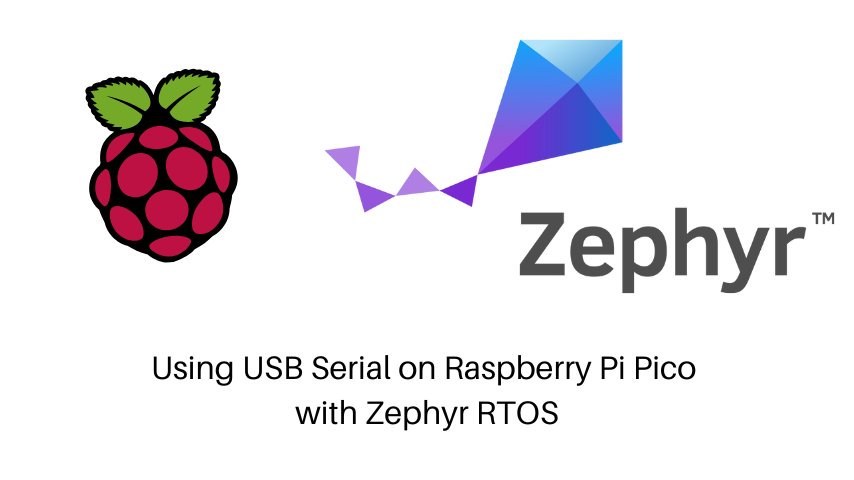
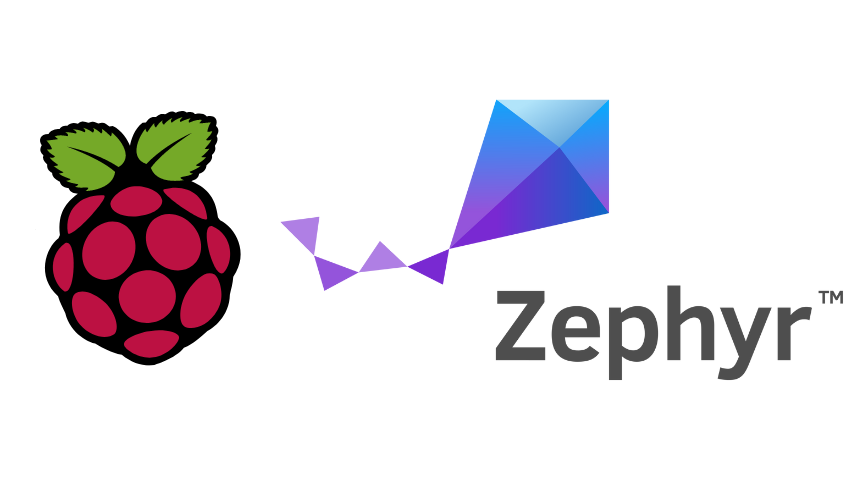
Fixes to blog posts Change-type: patch Signed-off-by: Alex Bucknall <alex.bucknall@gmail.com>

Changed region(s): [[0.0304, 0.0625, 1.0, 0.9062], [0.9438, 0.4375, 1.0, 0.4688]]

diff --git a/assets/monokai.css b/assets/monokai.css
@@ -1,0 +1,318 @@
+.highlight pre {
+  background-color: #272822;
+}
+
+.highlight .hll {
+  background-color: #272822;
+}
+
+.highlight .c {
+  color: #75715e
+}
+
+/* Comment */
+.highlight .err {
+  color: #960050;
+  background-color: #1e0010
+}
+
+/* Error */
+.highlight .k {
+  color: #66d9ef
+}
+
+/* Keyword */
+.highlight .l {
+  color: #ae81ff
+}
+
+/* Literal */
+.highlight .n {
+  color: #f8f8f2
+}
+
+/* Name */
+.highlight .o {
+  color: #f92672
+}
+
+/* Operator */
+.highlight .p {
+  color: #f8f8f2
+}
+
+/* Punctuation */
+.highlight .cm {
+  color: #75715e
+}
+
+/* Comment.Multiline */
+.highlight .cp {
+  color: #75715e
+}
+
+/* Comment.Preproc */
+.highlight .c1 {
+  color: #75715e
+}
+
+/* Comment.Single */
+.highlight .cs {
+  color: #75715e
+}
+
+/* Comment.Special */
+.highlight .ge {
+  font-style: italic
+}
+
+/* Generic.Emph */
+.highlight .gs {
+  font-weight: bold
+}
+
+/* Generic.Strong */
+.highlight .kc {
+  color: #66d9ef
+}
+
+/* Keyword.Constant */
+.highlight .kd {
+  color: #66d9ef
+}
+
+/* Keyword.Declaration */
+.highlight .kn {
+  color: #f92672
+}
+
+/* Keyword.Namespace */
+.highlight .kp {
+  color: #66d9ef
+}
+
+/* Keyword.Pseudo */
+.highlight .kr {
+  color: #66d9ef
+}
+
+/* Keyword.Reserved */
+.highlight .kt {
+  color: #66d9ef
+}
+
+/* Keyword.Type */
+.highlight .ld {
+  color: #e6db74
+}
+
+/* Literal.Date */
+.highlight .m {
+  color: #ae81ff
+}
+
+/* Literal.Number */
+.highlight .s {
+  color: #e6db74
+}
+
+/* Literal.String */
+.highlight .na {
+  color: #a6e22e
+}
+
+/* Name.Attribute */
+.highlight .nb {
+  color: #f8f8f2
+}
+
+/* Name.Builtin */
+.highlight .nc {
+  color: #a6e22e
+}
+
+/* Name.Class */
+.highlight .no {
+  color: #66d9ef
+}
+
+/* Name.Constant */
+.highlight .nd {
+  color: #a6e22e
+}
+
+/* Name.Decorator */
+.highlight .ni {
+  color: #f8f8f2
+}
+
+/* Name.Entity */
+.highlight .ne {
+  color: #a6e22e
+}
+
+/* Name.Exception */
+.highlight .nf {
+  color: #a6e22e
+}
+
+/* Name.Function */
+.highlight .nl {
+  color: #f8f8f2
+}
+
+/* Name.Label */
+.highlight .nn {
+  color: #f8f8f2
+}
+
+/* Name.Namespace */
+.highlight .nx {
+  color: #a6e22e
+}
+
+/* Name.Other */
+.highlight .py {
+  color: #f8f8f2
+}
+
+/* Name.Property */
+.highlight .nt {
+  color: #f92672
+}
+
+/* Name.Tag */
+.highlight .nv {
+  color: #f8f8f2
+}
+
+/* Name.Variable */
+.highlight .ow {
+  color: #f92672
+}
+
+/* Operator.Word */
+.highlight .w {
+  color: #f8f8f2
+}
+
+/* Text.Whitespace */
+.highlight .mf {
+  color: #ae81ff
+}
+
+/* Literal.Number.Float */
+.highlight .mh {
+  color: #ae81ff
+}
+
+/* Literal.Number.Hex */
+.highlight .mi {
+  color: #ae81ff
+}
+
+/* Literal.Number.Integer */
+.highlight .mo {
+  color: #ae81ff
+}
+
+/* Literal.Number.Oct */
+.highlight .sb {
+  color: #e6db74
+}
+
+/* Literal.String.Backtick */
+.highlight .sc {
+  color: #e6db74
+}
+
+/* Literal.String.Char */
+.highlight .sd {
+  color: #e6db74
+}
+
+/* Literal.String.Doc */
+.highlight .s2 {
+  color: #e6db74
+}
+
+/* Literal.String.Double */
+.highlight .se {
+  color: #ae81ff
+}
+
+/* Literal.String.Escape */
+.highlight .sh {
+  color: #e6db74
+}
+
+/* Literal.String.Heredoc */
+.highlight .si {
+  color: #e6db74
+}
+
+/* Literal.String.Interpol */
+.highlight .sx {
+  color: #e6db74
+}
+
+/* Literal.String.Other */
+.highlight .sr {
+  color: #e6db74
+}
+
+/* Literal.String.Regex */
+.highlight .s1 {
+  color: #e6db74
+}
+
+/* Literal.String.Single */
+.highlight .ss {
+  color: #e6db74
+}
+
+/* Literal.String.Symbol */
+.highlight .bp {
+  color: #f8f8f2
+}
+
+/* Name.Builtin.Pseudo */
+.highlight .vc {
+  color: #f8f8f2
+}
+
+/* Name.Variable.Class */
+.highlight .vg {
+  color: #f8f8f2
+}
+
+/* Name.Variable.Global */
+.highlight .vi {
+  color: #f8f8f2
+}
+
+/* Name.Variable.Instance */
+.highlight .il {
+  color: #ae81ff
+}
+
+/* Literal.Number.Integer.Long */
+
+.highlight .gh {}
+
+/* Generic Heading & Diff Header */
+.highlight .gu {
+  color: #75715e;
+}
+
+/* Generic.Subheading & Diff Unified/Comment? */
+.highlight .gd {
+  color: #f92672;
+}
+
+/* Generic.Deleted & Diff Deleted */
+.highlight .gi {
+  color: #a6e22e;
+}
+
+/* Generic.Inserted & Diff Inserted */

diff --git a/assets/styles.scss b/assets/styles.scss
@@ -2,7 +2,8 @@
 ---
 @import url('https://unpkg.com/primer/build/build.css');
 // @import 'highlight-syntax';
-@import 'fruity.css';
+// @import 'fruity.css';
+@import 'monokai.css';
 
 // If a user adds a custom font, this component will stop it from bleeding into GitHub components:
 .github-component {
@@ -17,6 +18,10 @@
     position: relative;
     top: 2px;
     width: 12px;
+}
+
+img {
+  width: 100%;
 }
 
 .emoji {

diff --git a/_posts/2023-05-12-rpi-pico-usb-serial-zephyr.md b/_posts/2023-05-12-rpi-pico-usb-serial-zephyr.md
@@ -9,18 +9,18 @@ comments: true
 category: zephyr
 ---
 
-## Raspberry Pico Serial Demo for Zephyr RTOS
+![Pico Zephyr](/assets/images/pico-zephyr.png)
 
-Example project for a simple USB Serial using the Raspberry Pi Pico, using Zephyr RTOS.
-There are a number of USB Serial examples for different Zephyr supported devices but few that are up-to-date with the latest version of Zephyr (3.3.99 at the time of writing).
+This is an example project for a simple USB Serial using the Raspberry Pi Pico, using Zephyr RTOS.
+There are a number of sample USB Serial for different Zephyr supported devices but few that are up-to-date with the latest version of Zephyr (currently [v3.3.0](https://github.com/zephyrproject-rtos/zephyr/releases/tag/v3.3.0)) and even fewer targeting the RPi Pico.
 
-This is a simple demo for how get a Serial Console from the RPi Pico over USB CDC ACM.
+This blog post refers to this [simple demo repository](https://github.com/Bucknalla/pico-zephyr-serial) for how get a 'Serial Console from the RPi Pico over USB CDC ACM'.
 
 ## Setting up your project
 
 The following files are required to enable a USB Serial Console on the RPi Pico.
 
-### prj.conf
+### [prj.conf](https://github.com/Bucknalla/pico-zephyr-serial/blob/main/prj.conf)
 
 The `*.conf` file is used by Zephyr as a `Kconfig` file, which specifies which kernel configuration options should be used for this application.
 These settings are used along with the board/device specific settings to generate a specific Zephyr kernel configuration.
@@ -40,7 +40,7 @@ CONFIG_UART_LINE_CTRL=y # This enables the API for apps to control the serial li
 
 If you're unsure of what a specific option does, the Zephyr Docs helpfully provide a [nice tool](https://docs.zephyrproject.org/latest/kconfig.html) for searching for each mainline config does.
 
-### app.overlay
+### [app.overlay](https://github.com/Bucknalla/pico-zephyr-serial/blob/main/app.overlay)
 
 Device Tree Overlays can be used by a Zephyr application to specify new hardware or re-assign existing hardware.
 In our application, we'll use the `app.overlay` to inform Zephyr that we want to have a USB CDC ACM device.
@@ -75,10 +75,11 @@ Since the kernel mainly deals with devices, any new device node that result in a
 
 In our case, we know that the RPi Pico board has a `zephyr_udc0` (USB device controller) node and we update the node to specify that we want this to be a CDC ACM type device, specifically compatible with `"zephyr,cdc-acm-uart"`.
 
-### .vscode/c_cpp_properties.json
+### [.vscode/c_cpp_properties.json](https://github.com/Bucknalla/pico-zephyr-serial/blob/main/.vscode/c_cpp_properties.json)
 
-This file, while not specific to Zephyr, is helpful when developing Zephyr Applications using VSCode as it allows the C/CPlusPlus [IntelliSense](https://code.visualstudio.com/docs/editor/intellisense) tools to resolve the missing header/includes for your Zephyr libraries.
+This file, while not specific to Zephyr, is helpful when developing Zephyr Applications using VSCode as it allows the C/C++ [IntelliSense](https://code.visualstudio.com/docs/editor/intellisense) tools to resolve the missing header/includes for your Zephyr libraries.
 Without this `.vscode/c_cpp_properties.json` file in your project (and then ), you won't get any of the helpful tooltips that instruct you about specific functions or data structures.
+You may have to tailor this more specifically to your workspace but it should be a helpful starting point!
 
 ## Glossary
 

diff --git a/_posts/2020-05-26-skid-buffers.md b/_posts/2020-05-26-skid-buffers.md
@@ -1,6 +1,6 @@
 ---
 title: "How do we prevent pipeline stalling?"
-published: true
+published: false
 date:   2020-05-26 19:19:43
 ---
 <script src="/assets/js/mermaid.min.js"></script>
